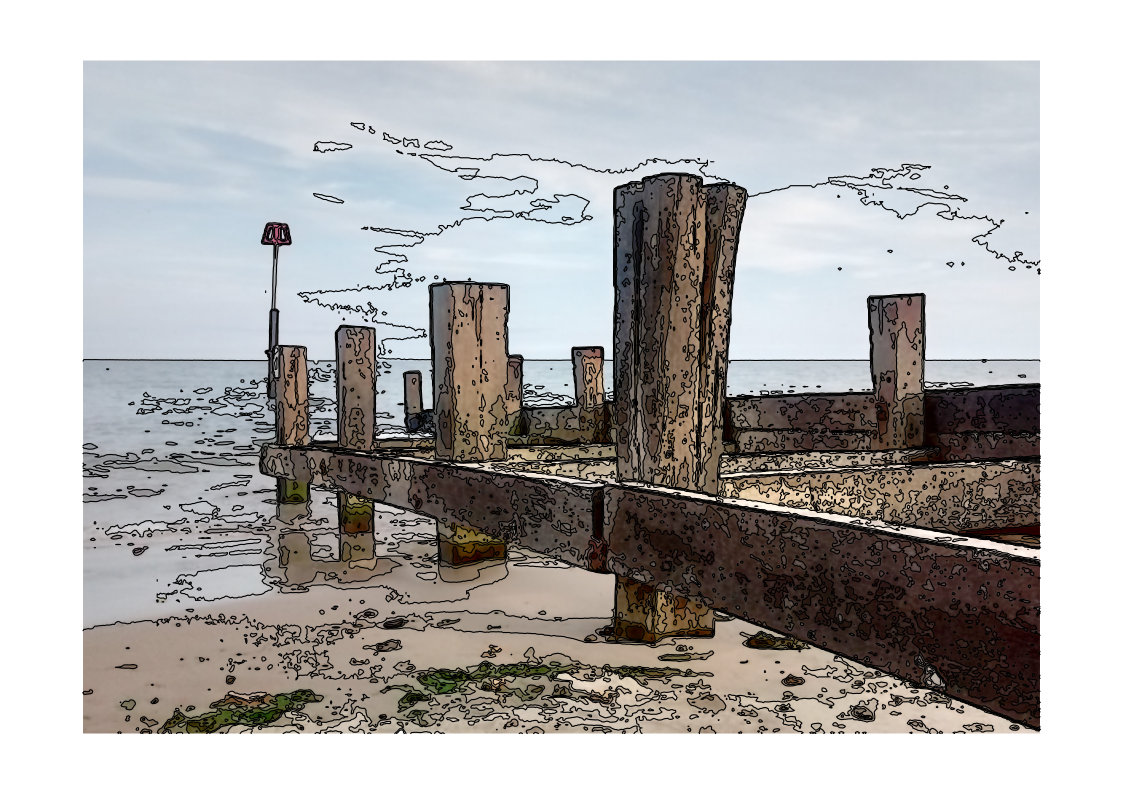
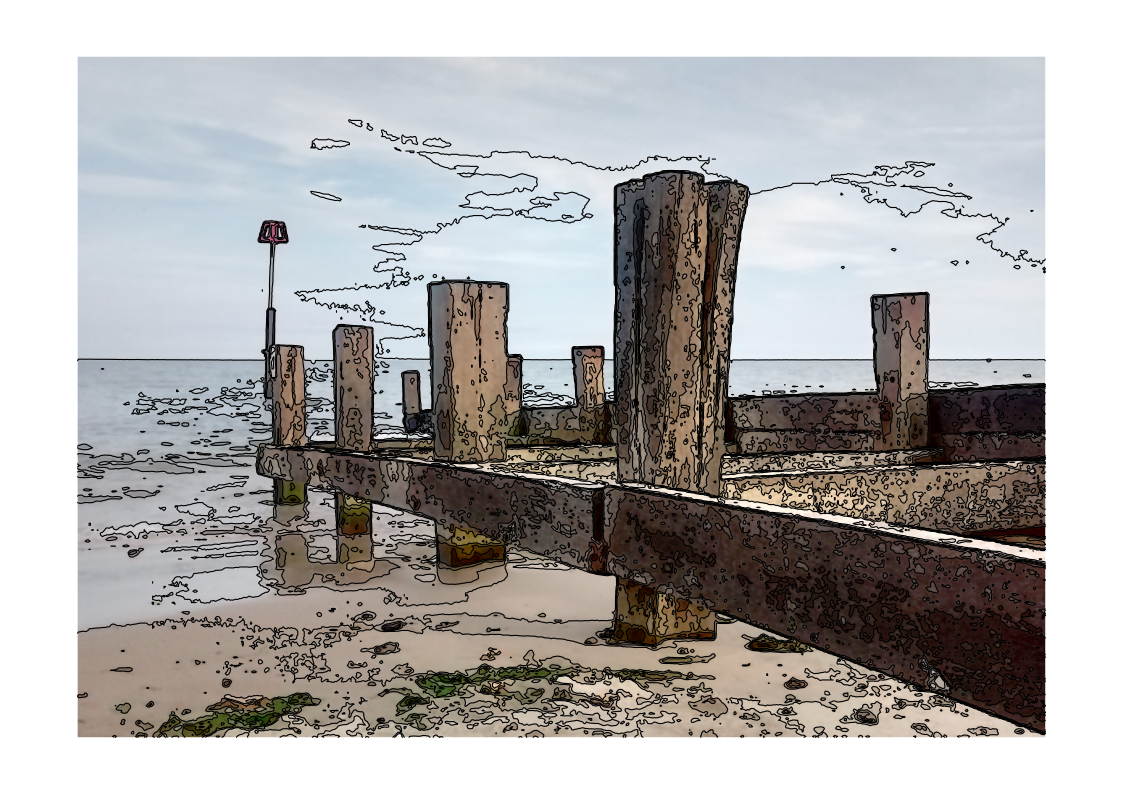
merged --frame and --framewidth

Changed region(s): [[0.0623, 0.0605, 0.935, 0.937], [0.2805, 0.2418, 0.3117, 0.272]]

diff --git a/hc_test.go b/hc_test.go
@@ -66,7 +66,6 @@ func TestFilename(t *testing.T) {
 		margin     float64
 		paper      string
 		paperSize  RectangleT
-		frame      bool
 		image      bool
 		clip       bool
 		dev        bool
@@ -74,8 +73,8 @@ func TestFilename(t *testing.T) {
 		framewidth float64
 	*/
 	testdata := []testdataT{
-		{OptsT{"file1.png", 100, 200, []int{44, 55}, -1, 15.0, "5x7", RectangleT{0, 0}, false, true, false, true, 1.0, 2.0}, "file1-hc-t44,55m15p5x7I.svg"},
-		{OptsT{"file1.png", 100, 200, []int{}, 3, 10.3, "200x300", RectangleT{0, 0}, true, false, true, false, 1.0, 2.0}, "file1-hc-T3m10.3p200x300FC.svg"},
+		{OptsT{"file1.png", 100, 200, []int{44, 55}, -1, 15.0, "5x7", RectangleT{0, 0}, true, false, true, 1.0, 0.0}, "file1-hc-t44,55m15p5x7I.svg"},
+		{OptsT{"file1.png", 100, 200, []int{}, 3, 10.3, "200x300", RectangleT{0, 0}, false, true, false, 1.0, 2.0}, "file1-hc-T3m10.3p200x300F2C.svg"},
 	}
 	for i, td := range testdata {
 		filename := buildSVGfilename(td.opts)
@@ -239,22 +238,22 @@ func TestCreateSVG(t *testing.T) {
 		outfile    string
 		thresholds []int
 		margin     float64
-		frame      bool
+		framewidth float64
 		paper      string
 		clip       bool
 		wanted     string
 	}
 	testdata := []testdataT{ // Compression is done for SVG contours
-		{"tests/test3.png", "tests/test3-hc-t128m15pA4LF.svg", []int{128}, 15, true, "A4L", false,
-			"<svg width=\"297mm\" height=\"210mm\" viewBox=\"0 0 297 210\" style=\"background-color:white\" xmlns=\"http://www.w3.org/2000/svg\" xmlns:inkscape=\"http://www.inkscape.org/namespaces/inkscape\" encoding=\"UTF-8\" >\n<g stroke=\"black\" stroke-width=\"0.0455\" stroke-linecap=\"round\" stroke-linejoin=\"round\" fill=\"none\" transform=\"translate(60.5,17) scale(22.0000)\">\n<g inkscape:groupmode=\"layer\" inkscape:label=\"0 frame\" stroke=\"black\">\n<rect id=\"frame\" width=\"8.0909\" height=\"8.0909\" x=\"-0.0455\" y=\"-0.0455\" stroke-width=\"0.0909\" />\n</g>\n<g inkscape:groupmode=\"layer\" inkscape:label=\"128 contour\" stroke=\"black\">\n<polyline id=\"0\" points=\"1.00,0.50 1.50,0.00 \" />\n<polyline id=\"1\" points=\"2.50,0.00 3.00,0.50 3.00,1.50 1.50,3.00 0.50,3.00 0.00,2.50 \" />\n<polyline id=\"2\" points=\"0.00,1.50 1.00,0.50 \" />\n<polyline id=\"3\" points=\"4.00,0.50 4.50,0.00 \" />\n<polyline id=\"4\" points=\"0.00,4.50 0.50,4.00 2.50,4.00 4.00,2.50 4.00,0.50 \" />\n<polygon id=\"0\"  points=\"5.00,4.50 5.50,4.00 6.00,4.50 6.00,5.50 5.50,6.00 4.50,6.00 4.00,5.50 5.00,4.50 \" />\n</g>\n</g>\n</svg>\n",
+		{"tests/test3.png", "tests/test3-hc-t128m15pA4LF2.svg", []int{128}, 15, 2.0, "A4L", false,
+			"<svg width=\"297mm\" height=\"210mm\" viewBox=\"0 0 297 210\" style=\"background-color:white\" xmlns=\"http://www.w3.org/2000/svg\" xmlns:inkscape=\"http://www.inkscape.org/namespaces/inkscape\" encoding=\"UTF-8\" >\n<g stroke=\"black\" stroke-width=\"0.0455\" stroke-linecap=\"round\" stroke-linejoin=\"round\" fill=\"none\" transform=\"translate(60.5000,17.0000) scale(22.0000)\">\n<g inkscape:groupmode=\"layer\" inkscape:label=\"0 frame\" stroke=\"black\">\n<rect id=\"frame\" width=\"8.0909\" height=\"8.0909\" x=\"-0.0455\" y=\"-0.0455\" stroke-width=\"0.0909\" />\n</g>\n<g inkscape:groupmode=\"layer\" inkscape:label=\"128 contour\" stroke=\"black\">\n<polyline id=\"0\" points=\"1.00,0.50 1.50,0.00 \" />\n<polyline id=\"1\" points=\"2.50,0.00 3.00,0.50 3.00,1.50 1.50,3.00 0.50,3.00 0.00,2.50 \" />\n<polyline id=\"2\" points=\"0.00,1.50 1.00,0.50 \" />\n<polyline id=\"3\" points=\"4.00,0.50 4.50,0.00 \" />\n<polyline id=\"4\" points=\"0.00,4.50 0.50,4.00 2.50,4.00 4.00,2.50 4.00,0.50 \" />\n<polygon id=\"0\"  points=\"5.00,4.50 5.50,4.00 6.00,4.50 6.00,5.50 5.50,6.00 4.50,6.00 4.00,5.50 5.00,4.50 \" />\n</g>\n</g>\n</svg>\n",
 		},
-		{"tests/test4.png", "tests/test4-hc-t100,200m15pA4PC.svg", []int{100, 200}, 15, false, "A4P", true,
-			"<svg width=\"210mm\" height=\"297mm\" viewBox=\"0 0 210 297\" style=\"background-color:white\" xmlns=\"http://www.w3.org/2000/svg\" xmlns:inkscape=\"http://www.inkscape.org/namespaces/inkscape\" encoding=\"UTF-8\" >\n<g stroke=\"black\" stroke-width=\"0.0341\" stroke-linecap=\"round\" stroke-linejoin=\"round\" fill=\"none\" transform=\"translate(17,89.83333333333334) scale(29.3333)\">\n<defs><clipPath id=\"clip1\" ><rect id=\"cliprect\" width=\"5.9659\" height=\"3.9659\" x=\"0.0170\" y=\"0.0170\" /></clipPath></defs>\n<g inkscape:groupmode=\"layer\" inkscape:label=\"100 contour\" stroke=\"black\">\n<path id=\"0\" clip-path=\"url(#clip1)\"  d=\"M 1.11,0.50 L 1.50,-0.00 L 1.89,0.50 L 2.89,1.50 L 2.89,2.50 L 1.89,3.50 L 1.50,4.00 L 1.11,3.50 L 0.50,2.89 L -0.00,2.50 L -0.00,1.50 L 0.50,1.11 L 1.11,0.50 Z M 4.11,0.50 L 4.50,-0.00 L 5.50,-0.00 L 6.00,0.50 L 6.00,1.50 L 5.50,1.89 L 4.50,1.89 L 4.11,1.50 L 4.11,0.50 Z M 4.11,3.50 L 4.50,3.11 L 4.89,3.50 L 4.50,4.00 L 4.11,3.50 Z \" />\n</g>\n<g inkscape:groupmode=\"layer\" inkscape:label=\"200 contour\" stroke=\"black\">\n<path id=\"1\" clip-path=\"url(#clip1)\"  d=\"M 0.72,0.50 L 1.50,-0.00 L 2.28,0.50 L 3.28,1.50 L 3.28,2.50 L 2.28,3.50 L 1.50,4.00 L 0.72,3.50 L 0.50,3.28 L -0.00,2.50 L -0.00,1.50 L 0.50,0.72 L 0.72,0.50 Z M 3.72,0.50 L 4.50,-0.00 L 5.50,-0.00 L 6.00,0.50 L 6.00,1.50 L 5.50,2.28 L 4.50,2.28 L 3.72,1.50 L 3.72,0.50 Z M 3.72,3.50 L 4.50,2.72 L 5.28,3.50 L 4.50,4.00 L 3.72,3.50 Z \" />\n</g>\n</g>\n</svg>\n",
+		{"tests/test4.png", "tests/test4-hc-t100,200m15pA4PC.svg", []int{100, 200}, 15, 0.0, "A4P", true,
+			"<svg width=\"210mm\" height=\"297mm\" viewBox=\"0 0 210 297\" style=\"background-color:white\" xmlns=\"http://www.w3.org/2000/svg\" xmlns:inkscape=\"http://www.inkscape.org/namespaces/inkscape\" encoding=\"UTF-8\" >\n<g stroke=\"black\" stroke-width=\"0.0333\" stroke-linecap=\"round\" stroke-linejoin=\"round\" fill=\"none\" transform=\"translate(15.0000,88.5000) scale(30.0000)\">\n<defs><clipPath id=\"clip1\" ><rect id=\"cliprect\" width=\"5.9667\" height=\"3.9667\" x=\"0.0167\" y=\"0.0167\" /></clipPath></defs>\n<g inkscape:groupmode=\"layer\" inkscape:label=\"100 contour\" stroke=\"black\">\n<path id=\"0\" clip-path=\"url(#clip1)\"  d=\"M 1.11,0.50 L 1.50,-0.00 L 1.89,0.50 L 2.89,1.50 L 2.89,2.50 L 1.89,3.50 L 1.50,4.00 L 1.11,3.50 L 0.50,2.89 L -0.00,2.50 L -0.00,1.50 L 0.50,1.11 L 1.11,0.50 Z M 4.11,0.50 L 4.50,-0.00 L 5.50,-0.00 L 6.00,0.50 L 6.00,1.50 L 5.50,1.89 L 4.50,1.89 L 4.11,1.50 L 4.11,0.50 Z M 4.11,3.50 L 4.50,3.11 L 4.89,3.50 L 4.50,4.00 L 4.11,3.50 Z \" />\n</g>\n<g inkscape:groupmode=\"layer\" inkscape:label=\"200 contour\" stroke=\"black\">\n<path id=\"1\" clip-path=\"url(#clip1)\"  d=\"M 0.72,0.50 L 1.50,-0.00 L 2.28,0.50 L 3.28,1.50 L 3.28,2.50 L 2.28,3.50 L 1.50,4.00 L 0.72,3.50 L 0.50,3.28 L -0.00,2.50 L -0.00,1.50 L 0.50,0.72 L 0.72,0.50 Z M 3.72,0.50 L 4.50,-0.00 L 5.50,-0.00 L 6.00,0.50 L 6.00,1.50 L 5.50,2.28 L 4.50,2.28 L 3.72,1.50 L 3.72,0.50 Z M 3.72,3.50 L 4.50,2.72 L 5.28,3.50 L 4.50,4.00 L 3.72,3.50 Z \" />\n</g>\n</g>\n</svg>\n",
 		},
 	}
 	for _, td := range testdata {
 		fmt.Printf("\t%s\n", td.infile)
-		opts := OptsT{infile: td.infile, thresholds: td.thresholds, tcount: -1, margin: td.margin, frame: td.frame, framewidth: 2, paper: td.paper, clip: td.clip, linewidth: 1}
+		opts := OptsT{infile: td.infile, thresholds: td.thresholds, tcount: -1, margin: td.margin, framewidth: td.framewidth, paper: td.paper, clip: td.clip, linewidth: 1}
 		parsePaperSize(&opts)
 		svgFilename := createSVG(opts)
 		if svgFilename != td.outfile {

diff --git a/svg.go b/svg.go
@@ -252,7 +252,7 @@ func (svg *SVGfile) openStart(filename string, opts OptsT) {
 		svg.write(plotBox)
 	}
 
-	transform := fmt.Sprintf("transform=\"translate(%g,%g) scale(%.4f)\"", translate.width, translate.height, scale)
+	transform := fmt.Sprintf("transform=\"translate(%.4f,%.4f) scale(%.4f)\"", translate.width, translate.height, scale)
 
 	// stroke-width is 'descaled' to result in what the user asked for
 	g := fmt.Sprintf("<g stroke=\"black\" stroke-width=\"%.4f\" stroke-linecap=\"round\" stroke-linejoin=\"round\" fill=\"none\" %s>\n", opts.linewidth/scale, transform)
@@ -276,7 +276,7 @@ func (svg *SVGfile) openStart(filename string, opts OptsT) {
 	}
 
 	//fmt.Printf("lw=%v  scale=%v   clippage=%v\n", opts.linewidth, scale, clippage)
-	if opts.frame {
+	if opts.framewidth > 0.0 {
 		svg.layer(0, "frame")
 		// stroke-width is 'descaled' to result in what the user asked for:
 		fwdescaled := opts.framewidth / scale
@@ -293,17 +293,17 @@ func (svg *SVGfile) openStart(filename string, opts OptsT) {
 			y += clippage
 		}
 		//frame := fmt.Sprintf("<rect id=\"frame\" width=\"%d\" height=\"%d\" stroke-width=\"%.4f\" />\n", opts.width, opts.height, opts.framewidth/scale)
-		frame := fmt.Sprintf("<rect id=\"frame\" width=\"%.4f\" height=\"%.4f\" x=\"%.4f\" y=\"%.4f\" stroke-width=\"%.4f\" />\n", w, h, x, y, fwdescaled)
-		//fmt.Print(frame)
-		svg.write(frame)
+		frameString := fmt.Sprintf("<rect id=\"frame\" width=\"%.4f\" height=\"%.4f\" x=\"%.4f\" y=\"%.4f\" stroke-width=\"%.4f\" />\n", w, h, x, y, fwdescaled)
+		//fmt.Print(frameString)
+		svg.write(frameString)
 		// FIXME image is in frame layer -- OK?  if not, need to call endLayer, and have it set currentLayer to -1
 		//   and if no frame, the image is not in any layer -- what will axidraw do with it?  maybe
 	}
 	if opts.image {
 		// CHECK clip image same as plot?
-		image := fmt.Sprintf("<image id=\"background\" href=\"%s\" width=\"%d\" height=\"%d\" clip-path=\"url(#clip1)\" />\n", path.Base(opts.infile), opts.width, opts.height)
-		//fmt.Print(image)
-		svg.write(image)
+		imageString := fmt.Sprintf("<image id=\"background\" href=\"%s\" width=\"%d\" height=\"%d\" clip-path=\"url(#clip1)\" />\n", path.Base(opts.infile), opts.width, opts.height)
+		//fmt.Print(imageString)
+		svg.write(imageString)
 	}
 }
 

diff --git a/hcontours.go b/hcontours.go
@@ -16,7 +16,7 @@ import (
 	"github.com/spf13/pflag"
 )
 
-const version = "0.1.0"
+const version = "0.1.1"
 
 // Get the pixel value (0..255) at the given coordinates in the image
 // Grey: Y = 0.299 R + 0.587 G + 0.114 B
@@ -224,16 +224,15 @@ func parsePaperSize(opts *OptsT) bool {
 func parseArgs(args []string) (OptsT, bool) {
 	var opts OptsT
 	pf := pflag.NewFlagSet("contours", pflag.ExitOnError)
-	pf.Float64VarP(&opts.margin, "margin", "m", 15, "Minimum margin (in mm).")
-	pf.StringVarP(&opts.paper, "paper", "p", "A4L", "Paper size and orientation.  A4L | A4P | A3L | A3P.")
 	pf.IntSliceVarP(&opts.thresholds, "threshold", "t", []int{128}, "Threshold levels, each 0..255, separated by commas.")
 	pf.IntVarP(&opts.tcount, "tcount", "T", 1, "Number of evenly-spaced threshold levels (unless overridden by --threshold).")
-	pf.BoolVarP(&opts.frame, "frame", "f", false, "Draw a frame around the SVG image.")
+	pf.Float64VarP(&opts.margin, "margin", "m", 15, "Minimum margin (in mm).")
+	pf.StringVarP(&opts.paper, "paper", "p", "A4L", "Paper size and orientation.  A4L | A4P | A3L | A3P.")
+	pf.Float64VarP(&opts.linewidth, "linewidth", "l", 0.5, "Width of contour lines, in mm.")
+	pf.Float64VarP(&opts.framewidth, "framewidth", "f", 0.0, "Width of frame lines, if any, in mm.")
 	pf.BoolVarP(&opts.image, "image", "i", false, "Use the original image as a background in the SVG image.")
 	pf.BoolVarP(&opts.clip, "clip", "c", false, "Clip borders of image, rather than breaking contours.")
 	pf.BoolVarP(&opts.debug, "debug", "d", false, "Add extra bits to the SVG -- intended for developer use only.")
-	pf.Float64Var(&opts.linewidth, "linewidth", 0.5, "Width of contour lines, in mm.")
-	pf.Float64Var(&opts.framewidth, "framewidth", 1.0, "Width of frame lines, in mm.")
 	pf.SortFlags = false
 	if args == nil {
 		pf.Parse(os.Args[1:]) // don't pass program name
@@ -266,8 +265,8 @@ func parseArgs(args []string) (OptsT, bool) {
 
 func buildSVGfilename(opts OptsT) string {
 	frameString := ""
-	if opts.frame {
-		frameString = "F"
+	if opts.framewidth > 0.0 {
+		frameString = fmt.Sprintf("F%g", opts.framewidth)
 	}
 	imageString := ""
 	if opts.image {

diff --git a/types.go b/types.go
@@ -161,7 +161,6 @@ type OptsT struct {
 	margin     float64
 	paper      string
 	paperSize  RectangleT
-	frame      bool
 	image      bool
 	clip       bool
 	debug      bool

diff --git a/README.md b/README.md
@@ -39,12 +39,9 @@ Contours at each level are grouped into Inkscape/Axidraw-style layers with the t
 Specify one or more threshold values, separated by commas, each in the range 0..255.  These are the pixel
 values that are used to find the contours.  If used, this option overrides --tcount.  Default `128`. Examples: `-t 99` `--threshold 32,64,96,128,160,192,224`
 
-* `--tcount | -T <1..254>`
+* `--tcount | -T <1..255>`
 Set the number of evenly-spaced threshold values.  For example, `-T 3` is equivalent to `-t 64,128,192`.  This option is ignored if `--threshold` is also specified.
-Valid range is 1 to 254.  Default `1`.  Examples: `--tcount 7` `-T8`
-
-* `--linewidth`
-The line width used for drawing contours, in millimetres.  Default `0.5`.  Examples: `--linewidth 1`, `--linewidth 2.54`
+Valid range is 1 to 255.  Default `1`.  Examples: `--tcount 7` `-T8`
 
 * `--margin | -m <width>`
 Define the minimum width of the margin around the created image.  
@@ -57,13 +54,13 @@ or a custom size in the format `<width>x<height>`.  Width and height are interpr
 if the value is greater than 30, otherwise as inches.  
 Default A4L. Examples: `-p A3L` `--paper 200x300` (mm) `-p 7x5` (inches)
 
-* `--frame | -f`
-Draw a simple frame around the SVG image.  Default false. Example `-f`
+* `--linewidth | -l <width>`
+The line width used for drawing contours, in millimetres.  Default `0.5`.  Examples: `--linewidth 1`, `-l 2.54`
+
+* `--framewidth | -f <width>`
+The line width used for drawing the frame, in millimetres.  Default `0.0`, i.e. no frame.  Examples: `--framewidth 3`, `-f 0.8`
 Note that the frame sits outside the SVG image: a wide frame will not obscure any of the image, but may mean that the image size is reduced so that frame and image 
 still fit within the paper size and margin.
-
-* `--framewidth`
-The line width used for drawing the frame, in millimetres.  Default `1.0`.  Examples: `--framewidth 3`, `--framewidth 0.8`
 The result will look a bit wrong if the --framewidth is less than the --linewidth.
 
 * `--image | -i`
